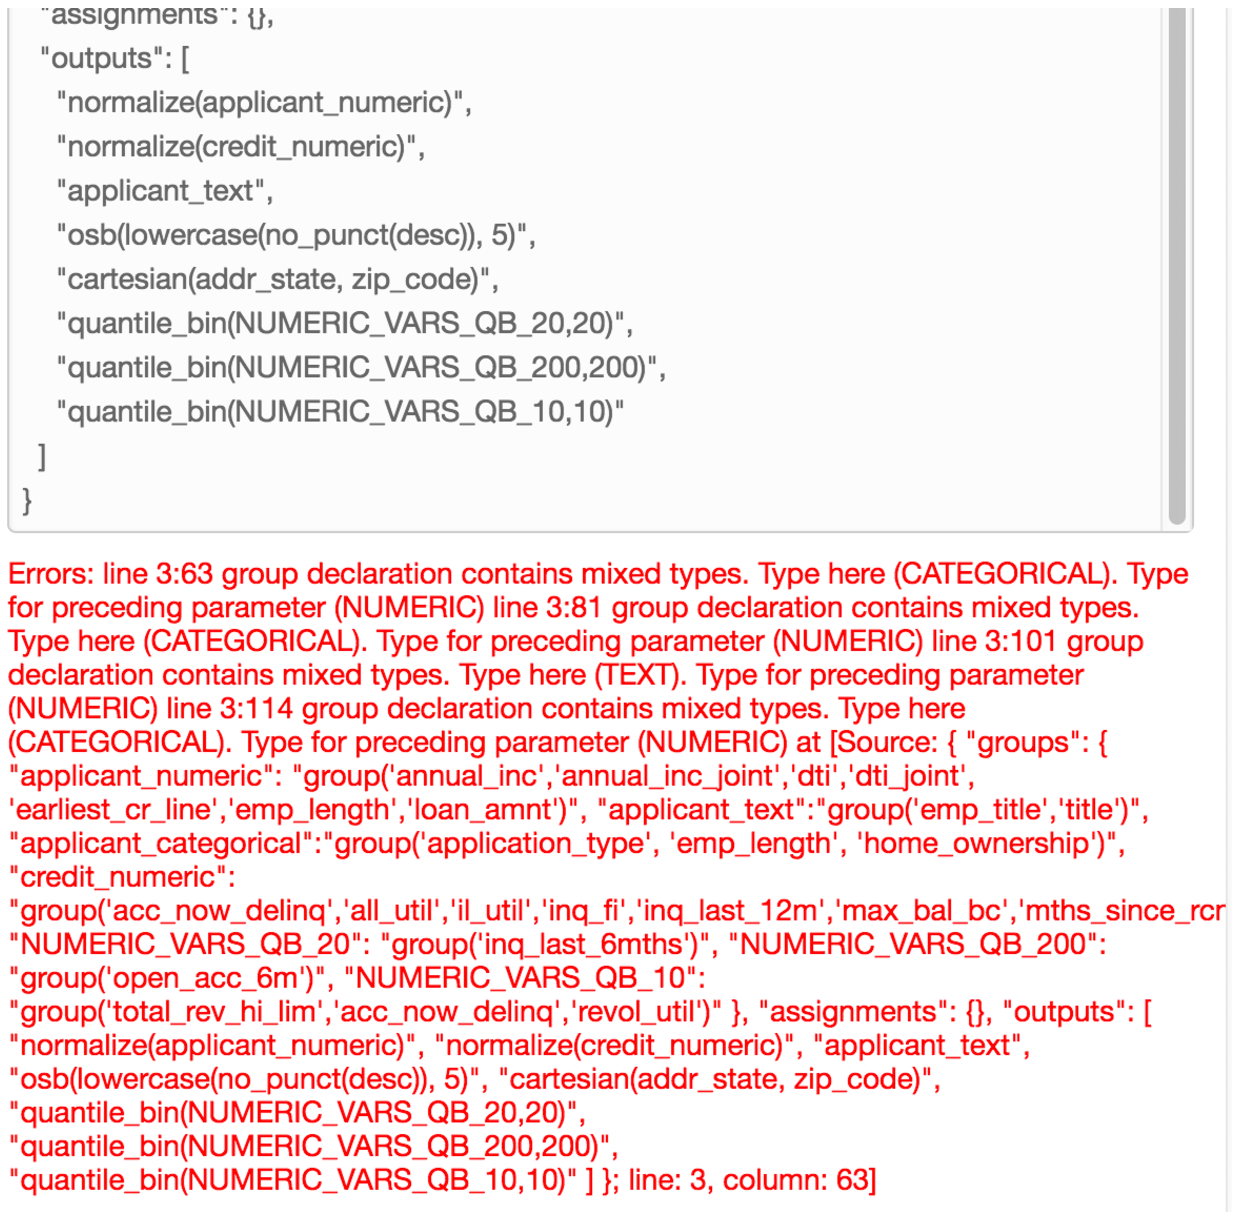
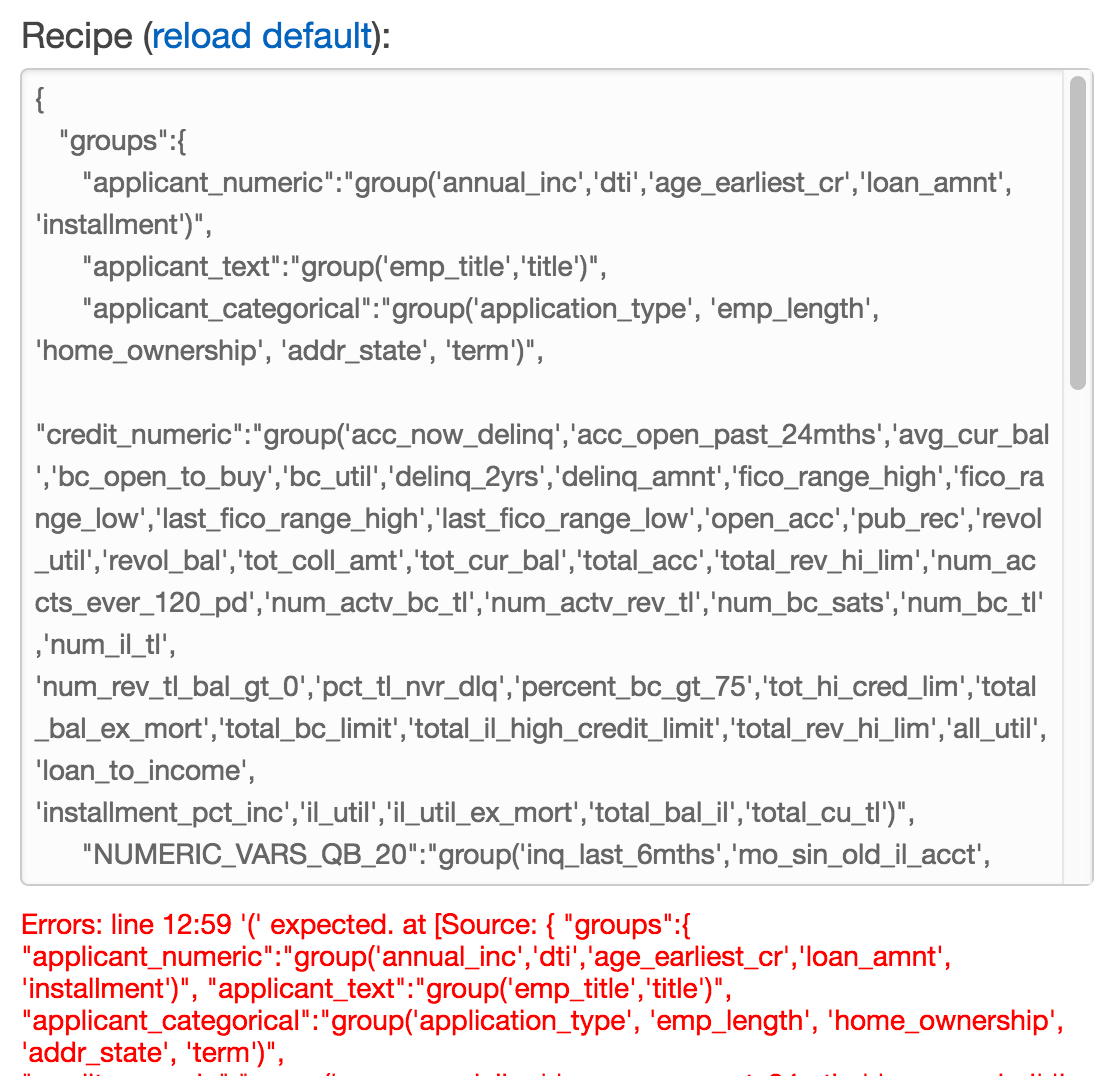
Added Model-Creation content

Changed region(s): [[0.0, 0.0, 0.9819, 1.0]]

diff --git a/Model-Creation.md b/Model-Creation.md
@@ -1,35 +1,32 @@
 # Creating the Machine Learning Model
+With our datasource built on our scrubbed data file ready to go we’re ready to finally create a machine learning model.  The AWS console walks you through the steps but we’ve got a few decisions to make beyond just selecting our datasource.  AWS refers to the mix of variables, from those available in the datasource,  that will be used to train the model as a “recipe” and offers a default recipe.
 
-AWS Recipe
-Remove features related to loan origination and status… we’re only interested in predicting the grade
-Addr_state + zip_code - Combine state and zip code because the zip code is masked it may not be as meaningful as we’d like… could combine with state
+![Selection of Custom Recipe when Creating ML Model](images/model-custom-recipe.png)
+
+However, our loan data set, drawn from existing loans, includes some data we don’t want to incorporate into the model such as the next loan payment, whether the borrower has been late, how the principal was financed by the loan issuer, etc.   We only want to use data that will be available when predicting interest rates so only applicant and credit report data is valid for use.   We’re going to need to create a custom “recipe”.   Check out the[AWS docs for details on the recipe format](http://docs.aws.amazon.com/machine-learning/latest/dg/data-transformations-for-machine-learning.html); it’s not the most straightforward and the editor in the AWS console is a little raw from a user experience standpoint but essentially the recipe consists of groups of variables you want the model to consider.  There is a validation step to help identify recipe errors as well.
+
+![Validation errors in the custom recipe editor](images/model-recipe-validation.png)
 
 
 ## Custom Recipe
-```
-{
-  "groups": {
-    "applicant_numeric": "group('annual_inc','dti','age_earliest_cr','loan_amnt', 'installment')",
-    "applicant_text":"group('emp_title','title')",
-    "applicant_categorical":"group('application_type', 'emp_length', 'home_ownership', 'addr_state', 'term')",
-    "credit_numeric": "group('acc_now_delinq','acc_open_past_24mths','avg_cur_bal','bc_open_to_buy','bc_util','delinq_2yrs','delinq_amnt','fico_range_high','fico_range_low','last_fico_range_high','last_fico_range_low','open_acc','pub_rec','revol_util','revol_bal','tot_coll_amt','tot_cur_bal','total_acc','total_rev_hi_lim','num_accts_ever_120_pd','num_actv_bc_tl','num_actv_rev_tl','num_bc_sats','num_bc_tl','num_il_tl', 'num_rev_tl_bal_gt_0','pct_tl_nvr_dlq','percent_bc_gt_75','tot_hi_cred_lim','total_bal_ex_mort','total_bc_limit','total_il_high_credit_limit','total_rev_hi_lim', 'all_util', 'loan_to_income', 'installment_pct_inc',’il_util’,'il_util_ex_mort',’total_bal_il’,’total_cu_tl’)",
-    "NUMERIC_VARS_QB_20": "group('inq_last_6mths','mo_sin_old_il_acct', 'mo_sin_old_rev_tl_op', 'mo_sin_old_rev_tl_op', 'mo_sin_rcnt_tl', 'mort_acc','num_op_rev_tl','num_rev_accts','num_sats','pub_rec','pub_rec_bankruptcies','tax_liens', 'all_util', 'loan_to_income')",
-    "NUMERIC_VARS_QB_5": "group('num_tl_120dpd_2m','num_tl_30dpd')",
-    "NUMERIC_VARS_QB_10": "group('acc_now_delinq','revol_util','mths_since_last_delinq','mths_since_last_major_derog','mths_since_last_record','mths_since_rcnt_il','mths_since_recent_bc','mths_since_recent_bc_dlq','mths_since_recent_inq','mths_since_recent_revol_delinq', 'num_tl_90g_dpd_24m','num_tl_op_past_12m')",
-    "NUMERIC_VARS_QB_50": "group('installment','bc_open_to_buy','fico_range_high','fico_range_low','last_fico_range_high','last_fico_range_low','loan_amnt','total_bc_limit','percent_bc_gt_75')"
-  },
-  "assignments": {},
-  "outputs": [
-    "normalize(applicant_numeric) // normalize the applicant numeric data",
-    "normalize(credit_numeric) // normalize the credit numeric data",
-    "applicant_text",
-    "applicant_categorical",
-    "cartesian(addr_state, zip_code) // combine state and masked zip code",
-    
-    "quantile_bin(NUMERIC_VARS_QB_5,5)",
-    "quantile_bin(NUMERIC_VARS_QB_10,10)",
-    "quantile_bin(NUMERIC_VARS_QB_20,20)",
-    "quantile_bin(NUMERIC_VARS_QB_50,50)",
-  ]
-}
-```
+After removing several attributes from the dataset that we would **not** have present when trying to make a loan interest rate or loan grade prediction, such as those related to servicing of existing loans, we end up with the following custom recipe:
+[custom-model-recipe.json](custom-model-recipe.json)
+
+A custom recipe also allows you to use data transformations that are built into the AWS machine learning service. Here are a couple that we used in our demo:
+ 
+* **normalize()** - Our loan data contains some variables measured in dollars and others that are counts of open credit lines.  However, comparing two applications, we know intuitively that a $10 change in a credit card balance isn’t as significant as 10 additional derogatory remarks on a credit report.  The value range for these two variables are drastically different and normalize() helps the model avoid giving undue weight to variables which simply have a larger range of values.
+* **quartile_bin()** - We also know that a $10 variation in the loan amount is probably not extremely influential in two otherwise equal loan applications.   It may be more useful to group some of our numeric data into “bins” e.g. loans between $0 and $10K, $10K and $20K, etc and then just consider which group the application falls into.   The quartile_bin() transformation creates these groups on the fly which are then treated as categorical variables rather than numeric.
+
+Next up the console will prompt for some additional training parameters such as how to divide the data into a [training and test sets](https://en.wikipedia.org/wiki/Test_set). Refer to the [AWS training parameter docs](http://docs.aws.amazon.com/machine-learning/latest/dg/training-parameters.html) for details.
+ 
+Having stepped through the AWS machine learning model wizard, our newly created model will now be in a pending state for a period of time while AWS trains our model and evaluates it using the portion of our data designated as the “test set”.   For the loan data set this typically took around 30 minutes.  
+ 
+After the training and evaluation the AWS console shows us how the interest rate predictions from our model compare with the actual interest rates from our test set.   In this case, the model is “pretty good”; it predicts an interest rate that is not off by much for most of the data.  It does appear to be skewed high e.g. the prediction is higher than the actual interest rate more often than not.
+
+![Model performance for predicting interest rate](images/model-performance-linear-regression.png)
+
+The second model we trained for the demo attempts to predict the loan grade rather than the interest rate.   In this case our model’s performance is presented as a “confusion matrix” which identifies where our model predicted the correct loan grade and where it went awry.   Here the blue diagonal line is signal of the model predicting correctly most of the time.  The dark orange square at the intersection of G on the left axis and F on the top axis indicates that our model incorrectly predicted a large number of G grade loans as being F.  This would prompt some follow-up analysis of the data and/or discussions with domain experts who know what distinguishes between an F and a G grade.  Perhaps we need additional data captured in the model or can calculate some additional features that will improve the performance.
+
+![Model performance for predicting interest rate](images/model-performance-multi-logistic-regression.png)
+
+The performance data offered here helps us determine if our model is suitable for our business needs.  Are these predictions good enough for some kind of contingent loan approval that might keep customers from looking to the next option in their search results?  The answer is of course a business decision but if they are not, we may need to iterate again through some analysis of the data and work to improve the quality of the model.
